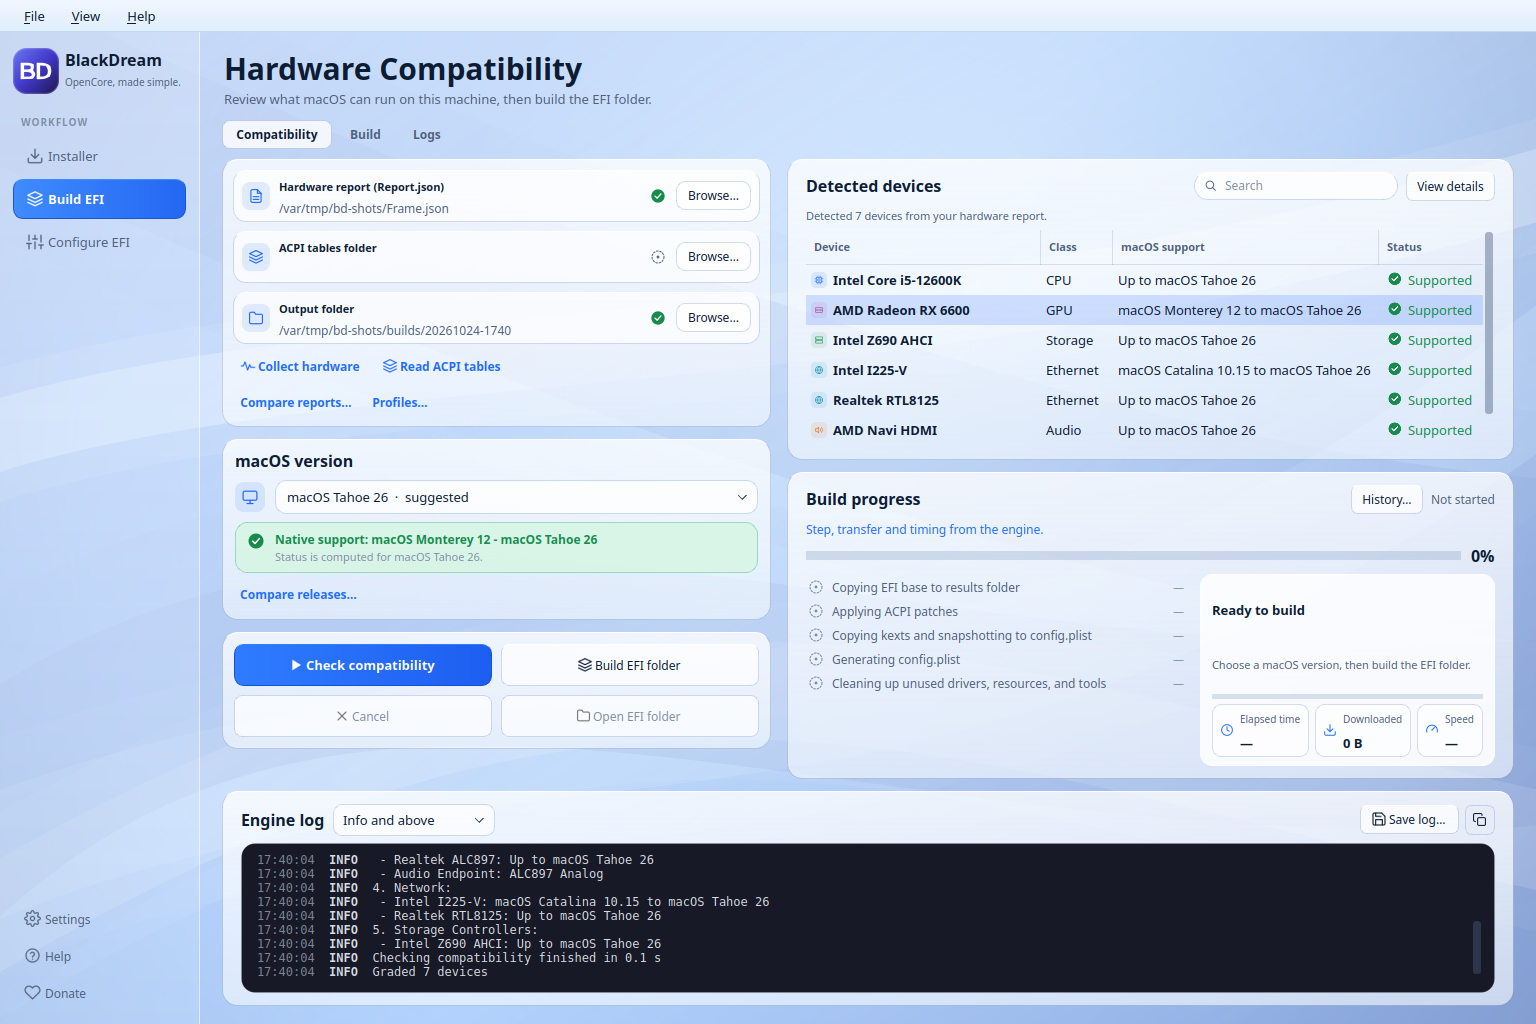
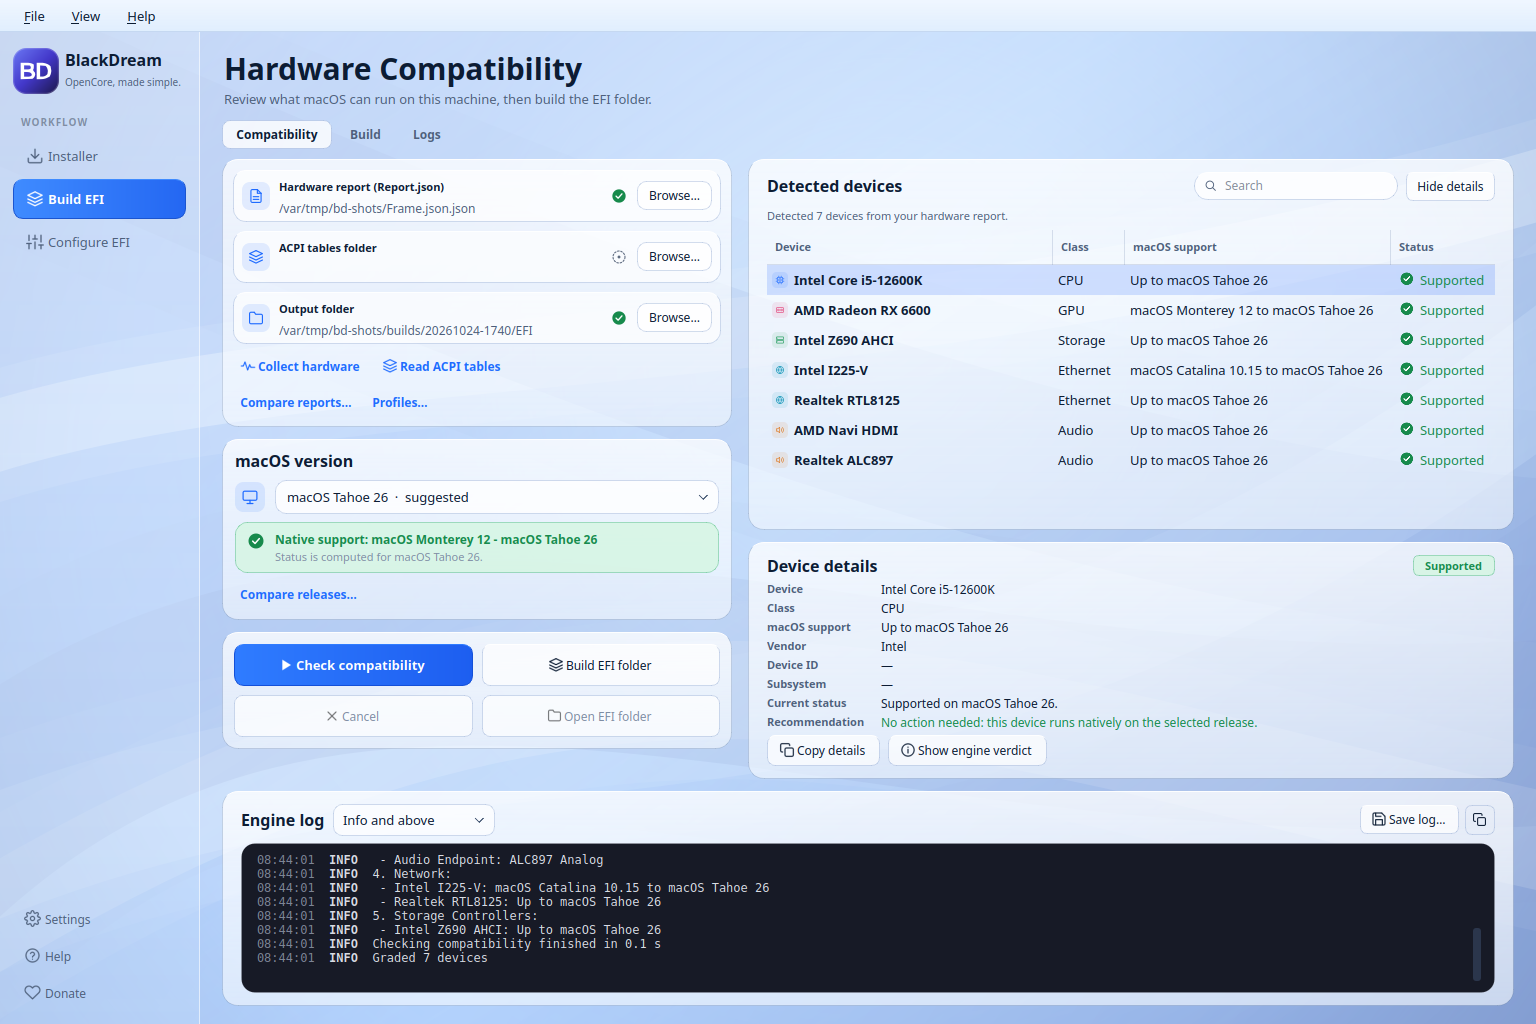
Keep every table header whole at the window floor
At 1160x700 the support column was 90 px, enough for its values but not
for the words "macOS support"; it painted "macOS suppo". The dashboard
split now gives the devices card 60 % of the row, which leaves the
column about 117 px at the floor while the device column keeps its
165 px.

The release matrix sized every release column at 104 px, so "macOS High
Sierra 10.13" was cut to "macOS High Si". Columns now size to their
names (with the full name as a header tooltip) and the grid already
scrolls sideways.

The changes dialog elided its empty-state sentence and its long values.
Every cell now carries its text as a tooltip, and the empty state is one
disabled row spanning the table.

The geometry audit behind these findings also learned to measure
spanned rows at their true width; across 8 views, both themes, three
sizes and 12 dialogs it now reports nothing.

diff --git a/src/blackdream/ui/main_window.py b/src/blackdream/ui/main_window.py
@@ -1717,7 +1717,7 @@ class MainWindow(QMainWindow):
         self._compat_progress.setSpacing(0)
         right.addLayout(self._compat_progress)
 
-        columns = _Split(left_host, right_host, spacing=16, stretch=(43, 57),
+        columns = _Split(left_host, right_host, spacing=16, stretch=(40, 60),
                          stack_below=800)
         layout.addWidget(columns, 1)
 
@@ -5879,13 +5879,18 @@ class _ChangesDialog(QDialog):
         self.tree.setColumnWidth(0, 92)
         for change in self._changes:
             before, after = change.pair
-            self.tree.addTopLevelItem(QTreeWidgetItem([
-                change.kind.capitalize(), change.label, before, after]))
+            item = QTreeWidgetItem([
+                change.kind.capitalize(), change.label, before, after])
+            item.setToolTip(1, change.label)
+            item.setToolTip(2, before)
+            item.setToolTip(3, after)
+            self.tree.addTopLevelItem(item)
         if not self._changes:
             empty = QTreeWidgetItem([
-                "None", "No edits since the file was opened.", "", ""])
+                "No edits since the file was opened.", "", "", ""])
             empty.setFlags(Qt.NoItemFlags)
             self.tree.addTopLevelItem(empty)
+            empty.setFirstColumnSpanned(True)
         layout.addWidget(self.tree, 1)
         buttons = QDialogButtonBox(QDialogButtonBox.Close)
         copy = buttons.addButton("Copy", QDialogButtonBox.ActionRole)
@@ -6343,9 +6348,17 @@ class _ReleaseMatrixDialog(QDialog):
         self.tree.setColumnWidth(0, 200)
         header.setSectionResizeMode(1, QHeaderView.Fixed)
         self.tree.setColumnWidth(1, 76)
-        for index in range(2, self.tree.columnCount()):
+        # A 104 px column cannot hold a release name: "macOS High Sierra 10.13"
+        # needs 151 px, and a header elided to "macOS High Sie" names nothing.
+        # The grid already scrolls sideways, so the columns widen to their names.
+        release_width = max(104, max(
+            (self.tree.fontMetrics().horizontalAdvance(column.option.name)
+             for column in matrix.columns), default=0) + 24)
+        for offset, column in enumerate(matrix.columns):
+            index = offset + 2
             header.setSectionResizeMode(index, QHeaderView.Fixed)
-            self.tree.setColumnWidth(index, 104)
+            self.tree.setColumnWidth(index, release_width)
+            self.tree.headerItem().setToolTip(index, column.option.name)
         for row in matrix.rows:
             item = QTreeWidgetItem([
                 row.verdict.name, row.verdict.class_label or row.verdict.section])
@@ -7047,7 +7060,12 @@ class _VerdictTree(QTreeWidget):
 
     _CLASS_WIDTH = 72
     _STATUS_MIN = 100
-    _SUPPORT_MIN = 110
+    #: A guard for a viewport narrower than the 1160 px window floor. At that
+    #: floor the 40 : 60 split leaves the column about 117 px -- enough for its
+    #: own header -- while the device column keeps its 165 px. The support text
+    #: is elided, tooltipped and repeated in the details pane, so it is still
+    #: the column that gives way first.
+    _SUPPORT_FLOOR = 90
     _SUPPORT_MAX = 266
     # The device name identifies the row; the release range already repeats in
     # the details pane, so it is the column that elides first.
@@ -7076,7 +7094,7 @@ class _VerdictTree(QTreeWidget):
     def _fit_columns(self, *_args) -> None:
         available = self.viewport().width()
         support = min(self._SUPPORT_MAX,
-                      max(self._SUPPORT_MIN,
+                      max(self._SUPPORT_FLOOR,
                           available - self._CLASS_WIDTH - self._status_width
                           - self._DEVICE_MIN))
         if self.columnWidth(2) != support:

diff --git a/tests/test_gui_slice.py b/tests/test_gui_slice.py
@@ -310,26 +310,42 @@ def test_a_device_name_is_rendered_as_text_not_markup(window, tmp_path):
 def test_the_release_range_gives_way_before_the_device_name(window, tmp_path, qapp):
     """Spec 14's table rule, measured instead of hoped for.
 
-    The card is 640 px wide at every window width, so the four columns have to share
-    a fixed budget: this pins that the support column is the one that shrinks, that
-    the name column never drops below its floor, and that whatever the table cannot
-    show is still in the row tooltip -- a report can name a device anything at all,
-    including the markup the test above feeds it, so elision is unavoidable and the
-    tooltip is what makes it survivable.
+    The four columns share a fixed budget: this pins that the support column is
+    the one that shrinks, that the name column never drops below its floor even
+    at the 1160 px window floor, and that whatever the table cannot show is still
+    in the row tooltip -- a report can name a device anything at all, including
+    the markup the test above feeds it, so elision is unavoidable and the tooltip
+    is what makes it survivable. The window is shown because a hidden QTreeWidget
+    keeps a stale viewport and would let the floors pass untested.
     """
     _load(window, tmp_path, "table", fixtures.alder_lake_desktop())
     tree = window.verdict_tree
+    window.show()
 
-    for width in (window.minimumSize().width(), 1280, 1900):
-        window.resize(width, 820)
-        for _ in range(6):
-            qapp.processEvents()
-        assert tree.columnWidth(0) >= tree._DEVICE_MIN, \
-            "the name column was squeezed at {} px".format(width)
-        assert tree._SUPPORT_MIN <= tree.columnWidth(2) <= tree._SUPPORT_MAX
-        for item in _rows(window):
-            assert item.toolTip(0) == item.text(0)
-            assert item.toolTip(2) == item.text(2)
+    try:
+        for width in (window.minimumSize().width(), 1280, 1900):
+            window.resize(width, 820)
+            for _ in range(6):
+                qapp.processEvents()
+            assert tree.columnWidth(0) >= tree._DEVICE_MIN, \
+                "the name column was squeezed at {} px".format(width)
+            assert tree._SUPPORT_FLOOR <= tree.columnWidth(2) <= tree._SUPPORT_MAX
+            metrics = tree.fontMetrics()
+            # The header carries 8 px of inset on each side. A support column
+            # narrower than its own header prints "macOS suppo" and names nothing,
+            # which is what the 40 : 60 split exists to prevent at the floor.
+            assert metrics.horizontalAdvance(tree.headerItem().text(2)) + 16 \
+                <= tree.columnWidth(2), \
+                "the support header elides at {} px".format(width)
+            for item in _rows(window):
+                assert item.toolTip(0) == item.text(0)
+                assert item.toolTip(2) == item.text(2)
+                # The standard delegate had 4 px of item padding at this size.
+                if width == window.minimumSize().width():
+                    assert metrics.horizontalAdvance(item.text(0)) \
+                        <= tree.columnWidth(0) - 4, item.text(0)
+    finally:
+        window.close()
 
 
 def test_cancellation_stops_a_running_job_and_releases_the_buttons(window, qapp):

diff --git a/tests/test_ui_feature_expansion.py b/tests/test_ui_feature_expansion.py
@@ -157,6 +157,14 @@ def test_the_release_matrix_matches_the_table_for_the_selected_release(
     assert dialog.tree.topLevelItemCount() == len(window._verdicts)
     first = dialog.tree.topLevelItem(0)
     assert first.text(2 + selected) == matrix.status(0, selected).label
+    # A release header is the column's only name. At the old fixed 104 px
+    # "macOS High Sierra 10.13" painted as "macOS High Si", so every header must
+    # fit its column and carry the full name as a tooltip.
+    metrics = dialog.tree.fontMetrics()
+    for index in range(2, dialog.tree.columnCount()):
+        label = dialog.tree.headerItem().text(index)
+        assert metrics.horizontalAdvance(label) <= dialog.tree.columnWidth(index) - 8
+        assert dialog.tree.headerItem().toolTip(index) == label
     tones = [QColor(window._palette[ui._STATUS_TONE.get(status.key, "unknown")])
              for status in matrix.rows[0].cells]
     assert [QColor(first.data(2 + index, Qt.ForegroundRole))

diff --git a/tests/test_ui_installer_section.py b/tests/test_ui_installer_section.py
@@ -1510,7 +1510,19 @@ def test_the_changes_dialog_lists_each_edit_with_both_values(
             "-1", "0") in [tuple(row) for row in rows]
     assert ("Changed", "Booter > Quirks > AvoidRuntimeDefrag",
             "true", "false") in [tuple(row) for row in rows]
+    for index in range(dialog.tree.topLevelItemCount()):
+        item = dialog.tree.topLevelItem(index)
+        assert item.toolTip(1) == item.text(1)
+        assert item.toolTip(2) == item.text(2)
+        assert item.toolTip(3) == item.text(3)
+
+    empty = ui._ChangesDialog(
+        window, [], window._config_doc.path, ui.LIGHT)
+    placeholder = empty.tree.topLevelItem(0)
+    assert placeholder.text(0) == "No edits since the file was opened."
+    assert placeholder.isFirstColumnSpanned()
     dialog.deleteLater()
+    empty.deleteLater()
 
 
 def test_selecting_a_validator_issue_jumps_to_the_key_it_names(

diff --git a/docs/UI-MOCKUP-SPEC.md b/docs/UI-MOCKUP-SPEC.md
@@ -258,7 +258,7 @@ widget instances* — nothing is duplicated:
 | View | Cards, in order |
 |---|---|
 | `Installer` | `macOS installer` (release picker and image download) · `USB drive` (target, identity and the guarded write). Nothing else shares this page: the installer never mounts the EFI session cards |
-| `Compatibility` | Two columns (43 : 57) above a full-width log. Left, top → bottom: the **setup card** (three path rows and the two capability links, untitled) · `macOS version` · the **actions card** (2 × 2 buttons, untitled). Right: `Detected devices` (grows) · `Build progress`; while details are open, `Device details` replaces `Build progress` in that slot. Bottom: `Engine log` across both columns |
+| `Compatibility` | Two columns (40 : 60) above a full-width log. Left, top → bottom: the **setup card** (three path rows and the two capability links, untitled) · `macOS version` · the **actions card** (2 × 2 buttons, untitled). Right: `Detected devices` (grows) · `Build progress`; while details are open, `Device details` replaces `Build progress` in that slot. Bottom: `Engine log` across both columns |
 | `Build EFI` | Top row: the actions card (natural height) · `Build progress` (grows). Bottom: `Engine log` filling the rest. The top row stacks below 900 px |
 | `Logs` | `Engine log` only, taking the full content height; no scroll area |
 | `Configure EFI` | Top: `config.plist`, a compact file card across the content width. Then a three-column row: `Sections` (206 px fixed rail) · `Keys` (grows; tree, add/remove/move toolbar and key search) · `Selected entry` (268 px fixed inspector). Bottom: `Validation` across the content width, its header carrying three outline buttons — `Schema preview…` · `Dependencies…` · `Validate again`. The page header's action slot carries the validation chip · schema chip · `Open config…` · `Validate` · `Save`. No session cards |
@@ -297,9 +297,12 @@ widget instances* — nothing is duplicated:
   pack their content to the top. A card with no growing child is padded with a trailing stretch so
   its content never floats mid-card. Cards scroll with the page when the window is short.
 - **The layout bends before it clips.** The two dashboard columns stack below an 800 px split
-  viewport; the `Build EFI` top row stacks below 900 px. The device table gives width to the support
-  column first, shrinking it from 266 px toward 110 px, then lets the status word size itself; the
-  device column never falls below 165 px and the table never scrolls sideways. The version combo
+  viewport; the `Build EFI` top row stacks below 900 px. The 40 : 60 split exists because at the
+  1160 px floor the four device-table headers only fit when the devices card keeps 60 % of the row;
+  the table then gives width to the support column first, shrinking it from 266 px until the row
+  fits and never below 90 px, after the status word and the device column's 165 px floor have taken
+  theirs. The device column never falls below 165 px and the table never scrolls sideways. The
+  version combo
   sizes to its content rather than its longest entry, so a long macOS name does not widen the card
   on a theme change. The floor is 1160 × 700; below that the window refuses to shrink, and a short
   window scrolls the page.
@@ -599,7 +602,9 @@ disabled while any job runs.
 
 Four headers, always: `Device` · `Class` · `macOS support` · `Status`. The first column stretches
 with a 165 px floor; `Class` is fixed at 72 px; `macOS support` shrinks first, from 266 px down to
-110 px; `Status` is at least 100 px and grows to its widest rendered word plus padding. Rows are
+a 90 px floor — at the 1160 px window floor the 40 : 60 split leaves it about 117 px, just enough
+for its own header; `Status` is at least 100 px and grows to its
+widest rendered word plus padding. Rows are
 29 px, single-selection, never sortable, and not striped. A `Limited support` row takes
 `rowWarnBg` and a `Not supported` row `rowFailBg`, across all four columns. The table scrolls its
 own rows with a 150 px minimum height; the vertical scrollbar's width is part of the column
@@ -1120,12 +1125,13 @@ behind the code, and a mockup built from it cannot contain a sentence the app wo
 - Never colour alone: status cells pair an icon with a word, stage rows pair an icon with a state
   name, field states pair an icon with a tooltip.
 - The Devices table gives way from the right: the `macOS support` column shrinks (266 px down to
-  its 110 px floor) before the Device column loses anything, so a name keeps every pixel the card
-  can spare. A name longer than that column is elided - the table is 640 px wide at every window
-  width, and no fixed column can promise otherwise against a string a report supplied - and the
-  whole name and the whole release range are in the row tooltip. A 200 % UI scale changes nothing
-  here: Qt doubles the device pixels and leaves the logical geometry, so what fits at 100 % fits
-  at 200 %.
+  its 90 px floor) before the Device column loses anything, so a name keeps every pixel the card
+  can spare. The 40 : 60 dashboard split is part of that promise: at the window minimum the table
+  keeps 60 % of the row, which is what lets the support header print in full. A name longer than the
+  column is elided - the table never scrolls sideways, and no fixed column can promise otherwise
+  against a string a report supplied - and the whole name and the whole release range are in the
+  row tooltip. A 200 % UI scale changes nothing here: Qt doubles the device pixels and leaves the
+  logical geometry, so what fits at 100 % fits at 200 %.
 - Engine text is untrusted content: device names come from a report written by another program, and
   remote filenames come from GitHub. Mockups should show long, awkward names
   (`Intel Cannon Lake-HDMI`, `Realtek RTL8821CE-CU4AA_921E PCIe Network Card`) rather than tidy ones.
@@ -1282,8 +1288,10 @@ result. Nothing on this page leaves the window, mounts a disk or writes the file
   tooltip and are disabled when the matching stack is empty. `Changes…` reads
   `Changes («n»)…` while the document differs from the file that was opened, and opens
   `Changes since the file was opened`: a read-only tree with headers `Change` · `Key` · `Before` ·
-  `After`, plus `Copy` and `Save as text…`. With no edits it shows one disabled `None` row reading
-  `No edits since the file was opened.` The history keeps the 100 newest snapshots, a save makes
+  `After`, plus `Copy` and `Save as text…`. With no edits it shows one disabled row, spanning the
+  table, reading `No edits since the file was opened.` Every cell carries its full text as a
+  tooltip, because a long before/after value is elided in place. The history keeps the 100 newest
+  snapshots, a save makes
   the saved bytes the new baseline, and undo/redo never re-reads or writes the file. Then the tree,
   headers `Key` · `Value` · `Type`, three columns (Key
   and Value stretch, Type fixed at 88 px), 16 px indentation, inline editing and a checkbox for
@@ -1422,8 +1430,9 @@ No funding URL exists yet; a mockup that invents one is wrong.
 920 × 500: a `rowTitle` heading `«n» device«s» across «n» release«s»`, one wrapped `rowBody` line that
 leads with *Each cell is the same status the device table would show for that release.* and ends
 with `release_matrix.BOUNDARY`, then a flat `configTree` table — `Device` fixed at 200 px, `Class`
-fixed at 76 px, one 104 px column per selectable release labelled with the release name; the grid
-scrolls sideways per pixel rather than eliding a device name. Cells carry
+fixed at 76 px, one column per selectable release at `max(104, name + 24)` px and labelled with the
+release name, which is also the header's tooltip; the grid scrolls sideways per pixel rather than
+eliding a device name. Cells carry
 `verdicts.target_status`'s label in the same `_STATUS_TONE` colour the `Status` column of the device
 table uses — a 15 %-alpha background wash alone cannot carry a verdict — and only `unsupported`
 (`rowFailBg`) and `limited` (`rowWarnBg`) are tinted; `supported` and `unknown` stay on the row
@@ -1880,7 +1889,7 @@ it. `«…»` marks a value the code fills in at runtime — invent a plausible 
   "table_geometry": {
     "class_width": 72,
     "device_min_width": 165,
-    "support_min_width": 110,
+    "support_min_width": 90,
     "support_max_width": 266,
     "status_min_width": 100,
     "row_height": 29,

diff --git a/docs/RELEASE-READINESS.md b/docs/RELEASE-READINESS.md
@@ -330,9 +330,10 @@ field as the one control that yields width, and says that the button beside it w
 leaves the logical geometry alone, so a card that fits at 1280 logical pixels fits at 2560
 device pixels, and one that clips does both. The one place where the spec promised a mechanism
 the code does not have was §14's Devices-table rule — "wrapping the `macOS support` column, never
-by truncating a device name mid-token". Measured: the card is 640 px wide at every window width,
-the table gives way from the right (the support column shrinks from 266 px to its 110 px floor
-before the name column loses anything, which keeps at least 165 px), and a name longer than that
+by truncating a device name mid-token". Measured: the table gives way from the right (the support
+column shrinks from 266 px to its floor before the name column loses anything, which keeps at least
+165 px; the dashboard's 40 : 60 split is what keeps the support header whole at the 1160 px floor),
+and a name longer than that
 elides with the whole string in the row tooltip. Wrapping was not implemented: a report can name
 a device anything at all — `test_a_device_name_is_rendered_as_text_not_markup` feeds it
 `<b>Bold</b> CPU` — so no fixed-width column can promise against truncation, and the row height
